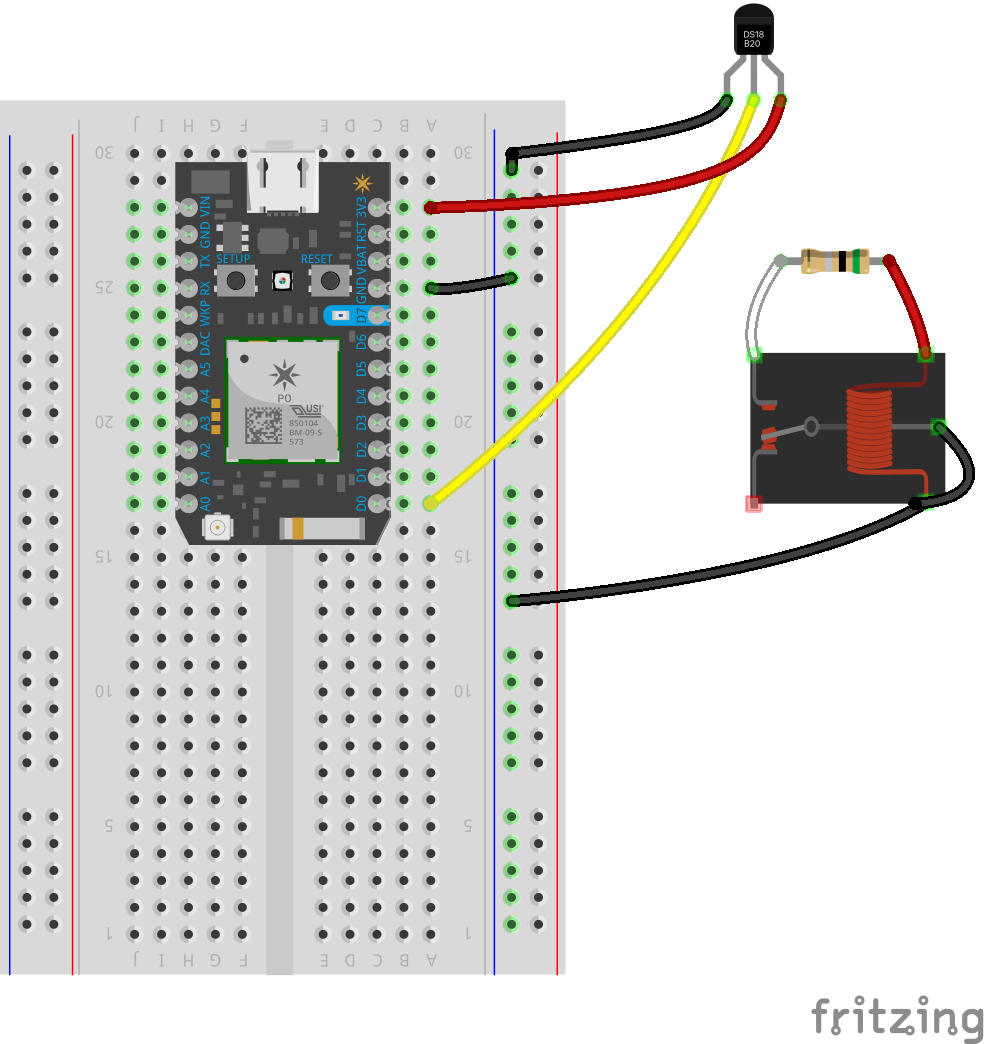
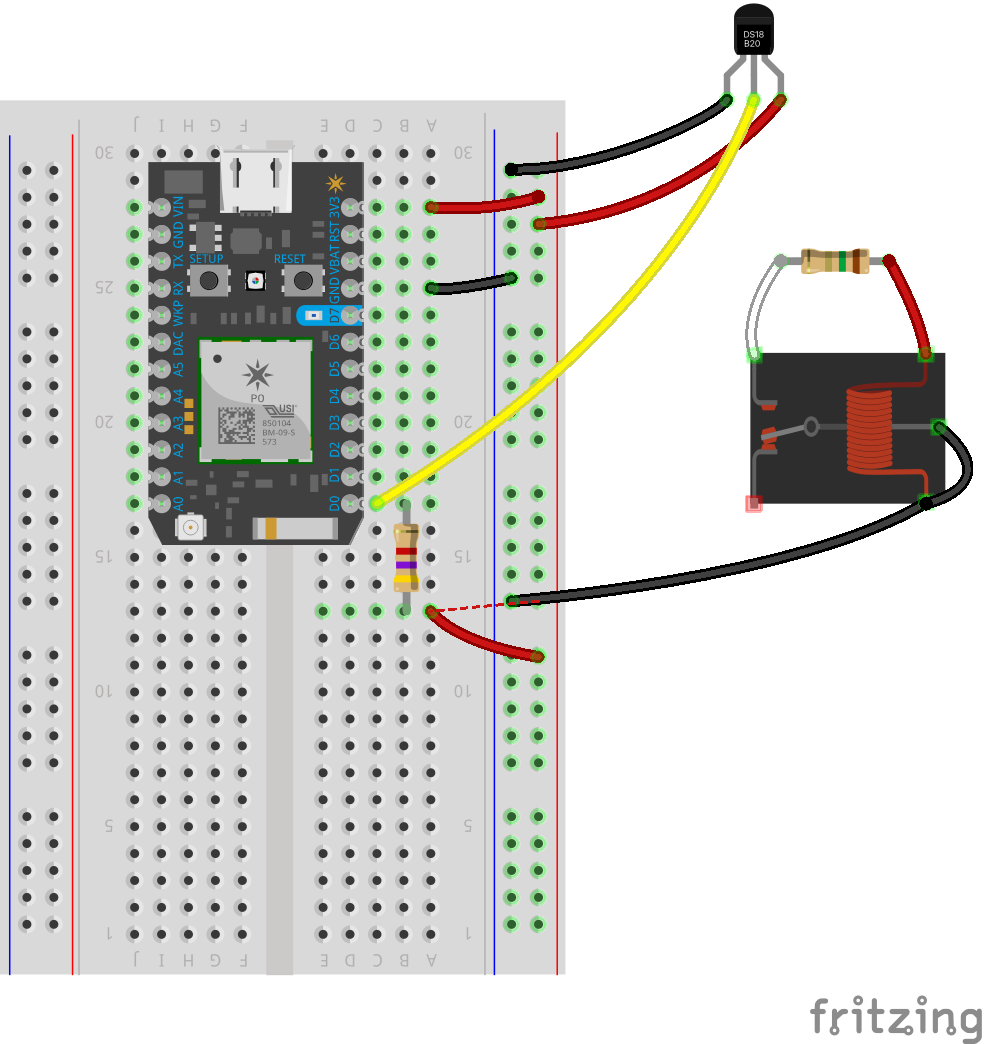
Update schematic to include 4.7K pullup reistor

diff --git a/README.md b/README.md
@@ -42,6 +42,7 @@ design, or software provided. Please be careful.
 | SRD-5VDC-SL-C Relay               | K1              | [Datasheet](./docs/datasheets/SRD-5VDC-SL-C.pdf)  | https://www.amazon.com/dp/B00LW15A4W                       |
 | Dernord 12V 100W Cartridge Heater | R1              | Not Available                                     | https://www.amazon.com/dp/B0741664G5                       |
 | Bench Power Supply                |                 | Not Available                                     | https://www.amazon.com/dp/B08DJ1FDXV                       |
+| 4.7KΩ Pullup Resistor             | R2              | Not Available                                     | Widely Available                                           |
 
 ### Schematic
 
